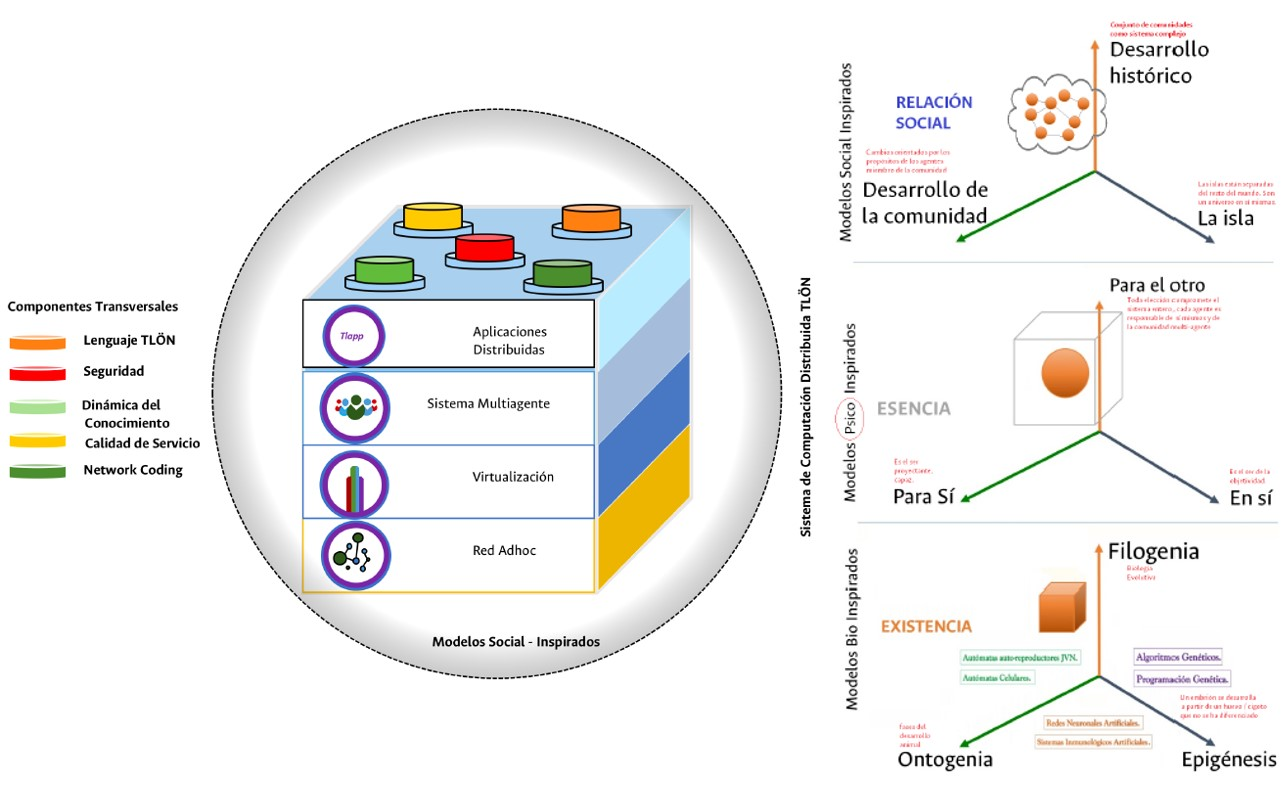
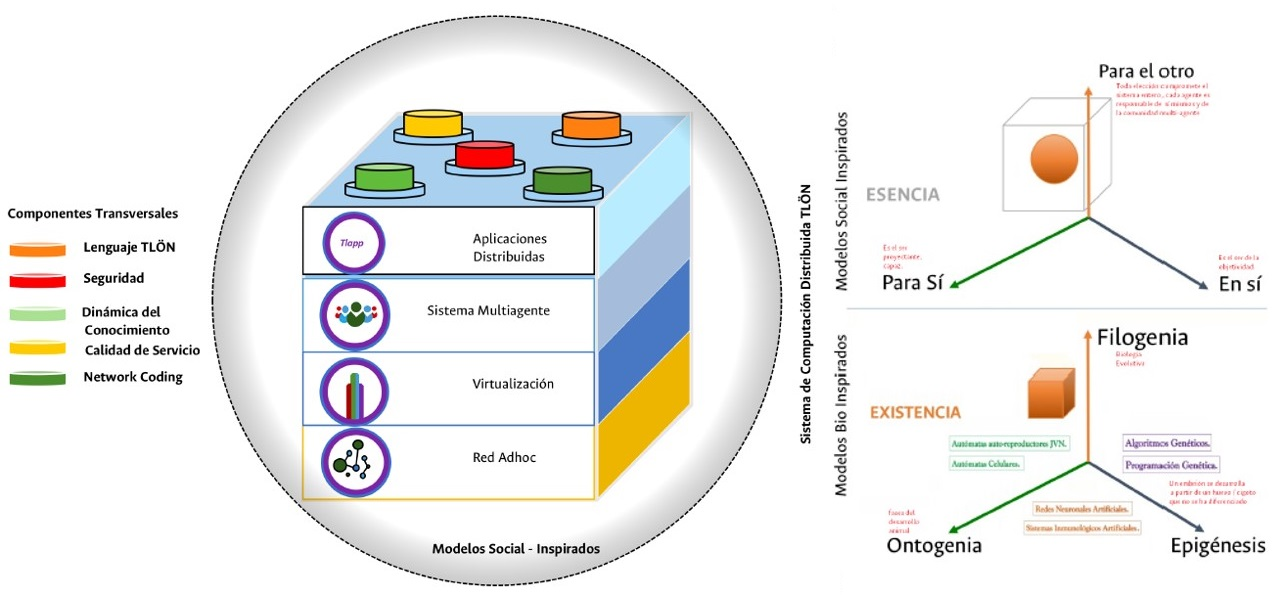
Updates from Overleaf

Changed region(s): [[0.1838, 0.0, 1.0, 0.99], [0.0, 0.33, 0.1838, 0.66], [0.9191, 0.42, 1.0, 0.48]]

diff --git a/Sustentacion/Sections/Section1.tex b/Sustentacion/Sections/Section1.tex
@@ -5,7 +5,7 @@
 \begin{frame}{Ecosistema de dispositivos}{Contexto - Motivación}
 %-------------------------------------------------------
     \begin{figure}				
-		\fbox{\includegraphics[width=0.6\textwidth,height=0.85\textheight,keepaspectratio]{Figures/Muestra.jpg}}
+		{\includegraphics[width=0.99\textwidth,keepaspectratio]{Sustentacion/Figures/DispositivosColombia.JPG}}
 		\caption{\small \sl Dispositivos en el mercado colombiano [Fuente Propia]}
 		\label{figure:Ecosistema}
     \end{figure}

diff --git a/Sustentacion/Sections/Section3.tex b/Sustentacion/Sections/Section3.tex
@@ -23,7 +23,7 @@
 \begin{frame}{Modelos Social-inspirados- Modelo TLÖN}{Modelo Propuesto}
 %-------------------------------------------------------
     \begin{figure}				
-		\fbox{\includegraphics[height=0.7\textheight,keepaspectratio]{Sustentacion/Figures/ModeloTLON2.jpg}}
+		\fbox{\includegraphics[height=0.55\textheight,keepaspectratio]{Sustentacion/Figures/ModeloTLON2.jpg}}
 		\caption{\small \sl Modelo TLÖN}
 		\label{figure:TLON}
     \end{figure}

diff --git a/Sustentacion/Feathertheme.tex b/Sustentacion/Feathertheme.tex
@@ -90,10 +90,14 @@
       %\textbf{Avance 4 - Implementación y simulación}
 }
 
-\author[Grupo TLÖN]
-{      
+\author[Giuseppe]
+{   
     Giuseppe Roa Osorio \\
-    {\ttfamily groao@unal.edu.co}
+    {\ttfamily groao@unal.edu.co}\\
+    Candidato a MsC Telecomunicaciones\\
+    \vspace{0.5cm}
+    Director: Jorge Eduardo Ortiz\\
+    {\ttfamily jeortizt@unal.edu.co}
 }
 
 \institute[]
